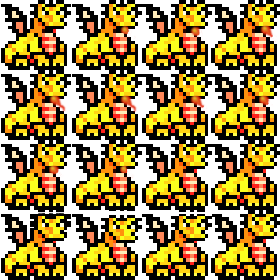
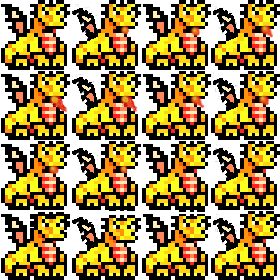
Add dragon flight and treasure shine

diff --git a/js/game.js b/js/game.js
@@ -15,11 +15,11 @@ gameScene.preload = function() {
     // load images
     this.load.image('background', 'assets/background.png');
     this.load.image('player',     'assets/player.png');
-    this.load.image('enemy',      'assets/dragon.png');
-    this.load.image('goal',       'assets/treasure.png');
 
+    this.load.spritesheet('goal',           'assets/treasure_animated.png',
+                          { frameWidth: 75, frameHeight: 63 });
     this.load.spritesheet('enemy_animated', 'assets/dragon_animated.png',
-                        { frameWidth: 70, frameHeight: 70 });
+                          { frameWidth: 70, frameHeight: 70 });
 };
 
 function getRangeRandom(min, max) {
@@ -41,6 +41,13 @@ gameScene.create = function() {
     // goal
     this.goal = this.add.sprite(this.sys.game.config.width - 80, this.sys.game.config.height / 2, 'goal');
     this.goal.setScale(0.6);
+    this.anims.create({
+        key: 'shine',
+        frames: this.anims.generateFrameNumbers('goal', { start: 0, end: 4 }),
+        frameRate: 3,
+        repeat: -1
+    });
+    this.goal.anims.play('shine', true);
 
     // create an enemy
     this.enemies = this.add.group({
